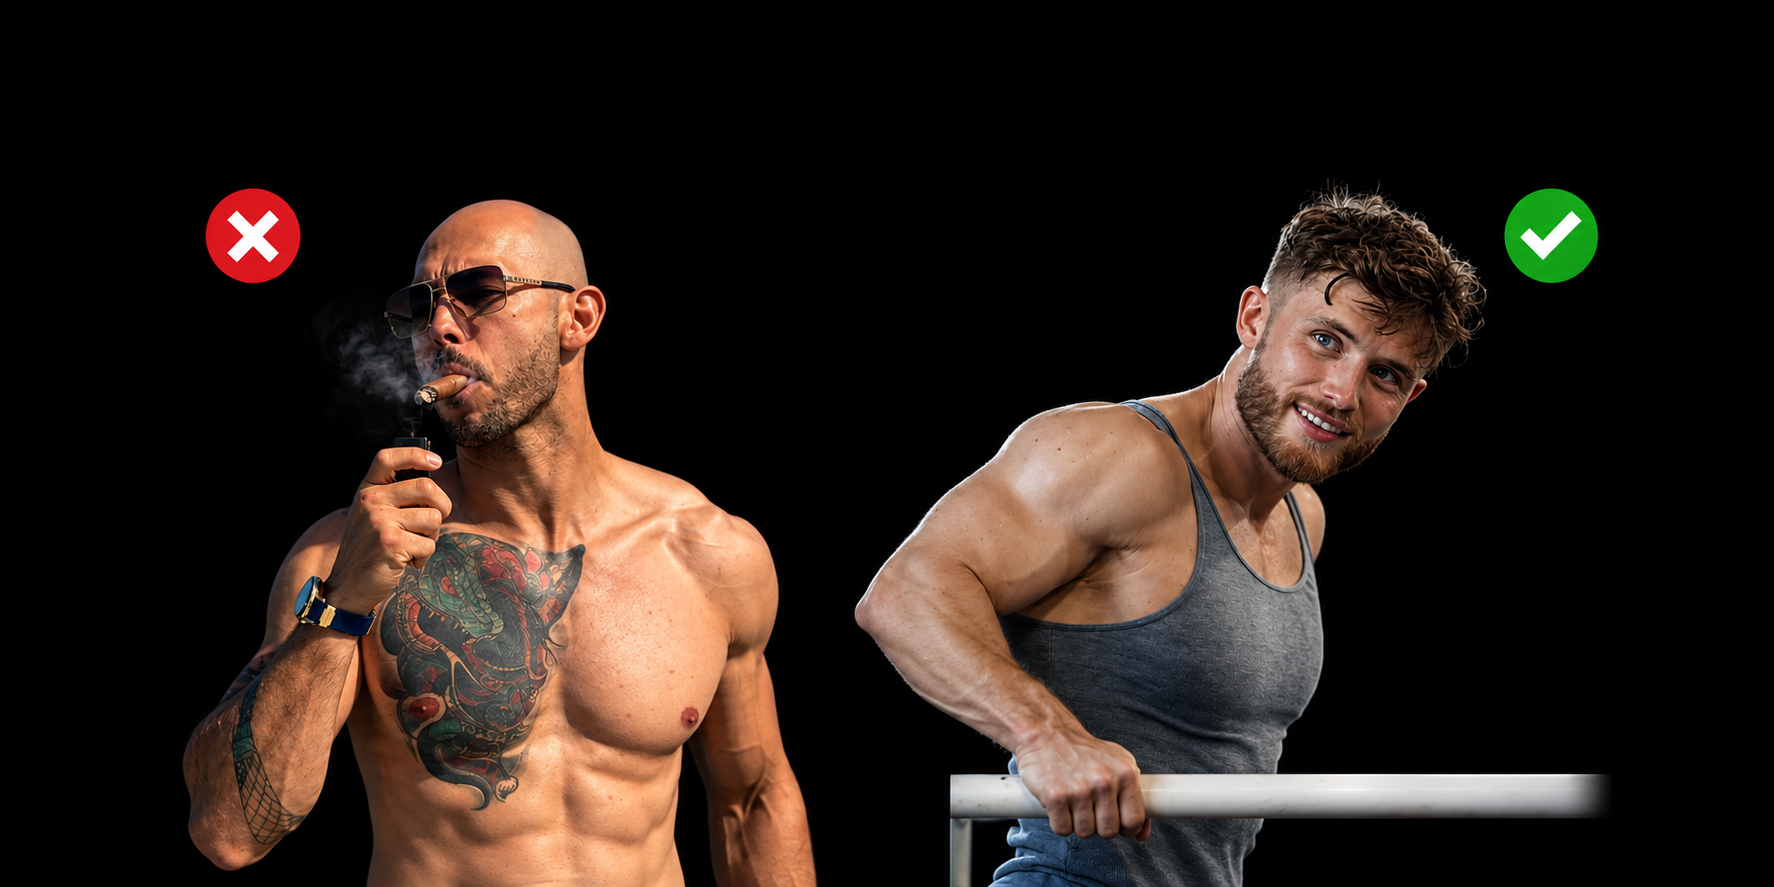
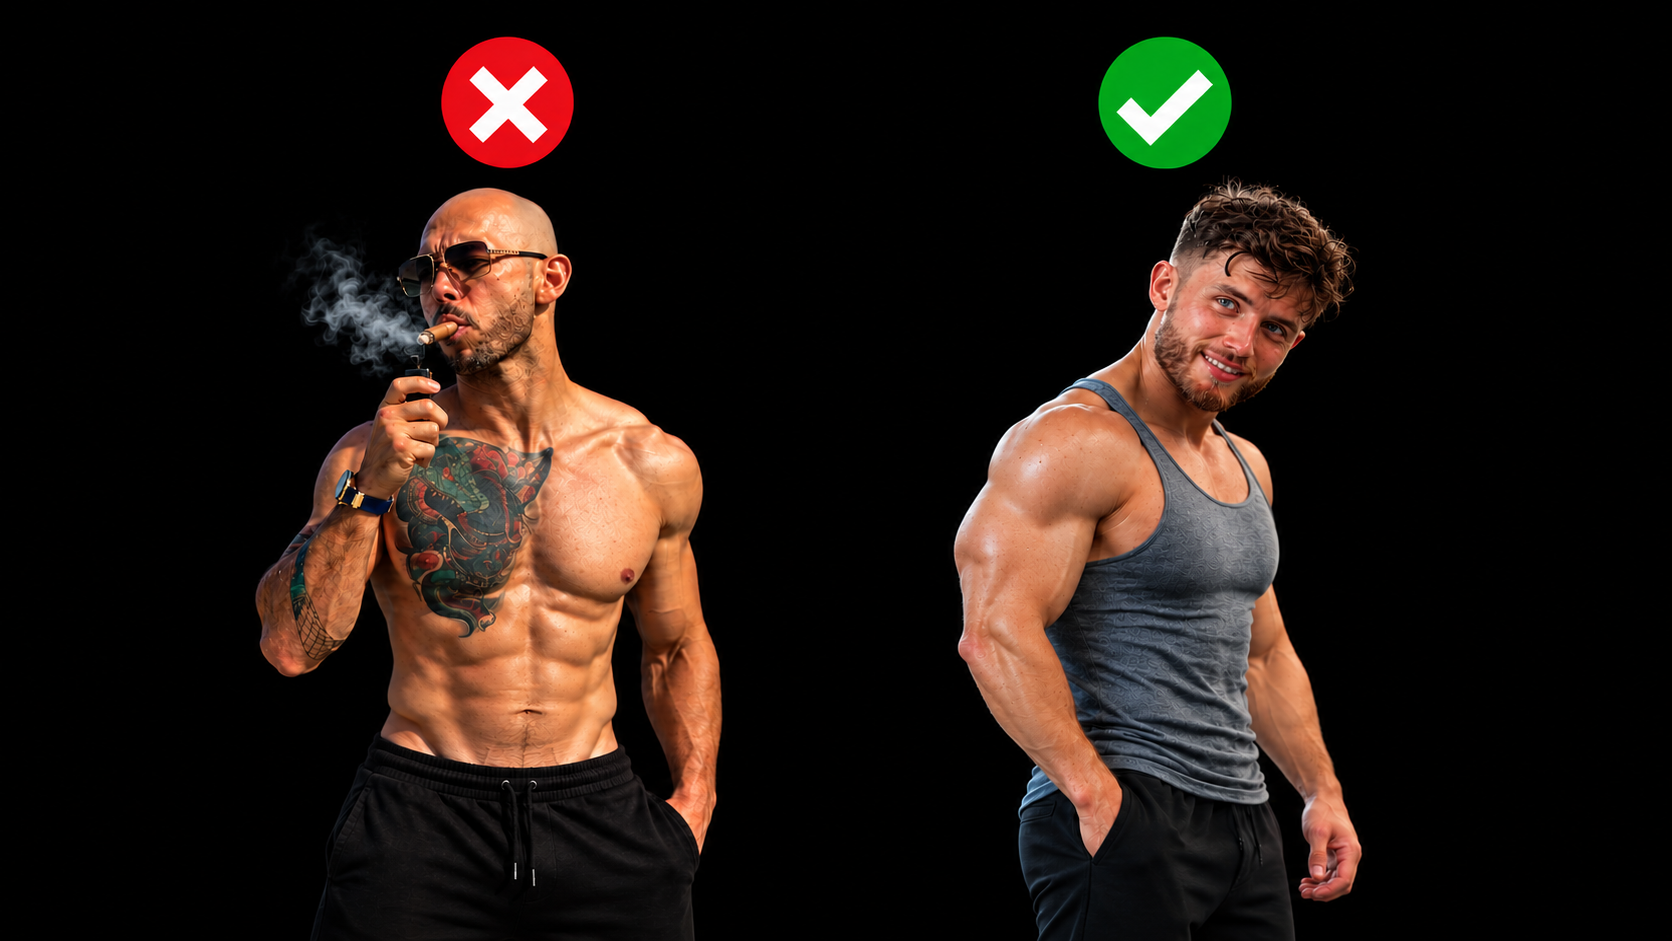
Make mobile hero video fill remaining screen height

diff --git a/src/index.css b/src/index.css
@@ -1144,10 +1144,10 @@ img {
     justify-content: flex-start;
     align-items: stretch;
     padding: 3rem 1.25rem 2rem 1.25rem;
-    height: auto;
-    min-height: auto;
+    height: 100svh;
+    min-height: 100svh;
     box-sizing: border-box;
-    overflow: visible;
+    overflow: hidden;
   }
 
   .hero-content-wrapper {
@@ -1158,6 +1158,7 @@ img {
     height: auto;
     pointer-events: auto;
     display: block;
+    flex-shrink: 0;
   }
 
   .hero-text-side {
@@ -1192,7 +1193,8 @@ img {
     right: auto;
     bottom: auto;
     width: 100%;
-    height: auto;
+    flex: 1;
+    min-height: 0;
     padding: 0;
     display: flex;
     flex-direction: column;
@@ -1203,7 +1205,8 @@ img {
 
   .video-wrapper-container {
     width: 100%;
-    height: auto;
+    flex: 1;
+    min-height: 0;
     display: flex;
     flex-direction: column;
     margin: 0;
@@ -1213,7 +1216,8 @@ img {
   .video-wrapper {
     position: relative;
     width: 100%;
-    height: auto;
+    flex: 1;
+    min-height: 0;
     display: flex;
     justify-content: center;
     align-items: center;
@@ -1227,9 +1231,9 @@ img {
     position: relative;
     width: 100%;
     max-width: 100%;
-    height: auto;
-    max-height: 54vh;
-    aspect-ratio: 9 / 14;
+    height: 100%;
+    max-height: none;
+    aspect-ratio: auto;
     object-fit: cover;
     border-radius: 12px;
     -webkit-mask-image: none;
@@ -1245,8 +1249,8 @@ img {
     left: 0;
     width: 100%;
     height: 100%;
-    max-height: 54vh;
-    aspect-ratio: 9 / 14;
+    max-height: none;
+    aspect-ratio: auto;
     object-fit: cover;
     object-position: center top;
     border-radius: 12px;
@@ -1298,6 +1302,7 @@ img {
     text-align: left;
     z-index: 10;
     pointer-events: auto;
+    flex-shrink: 0;
   }
 
   .rotating-text {
